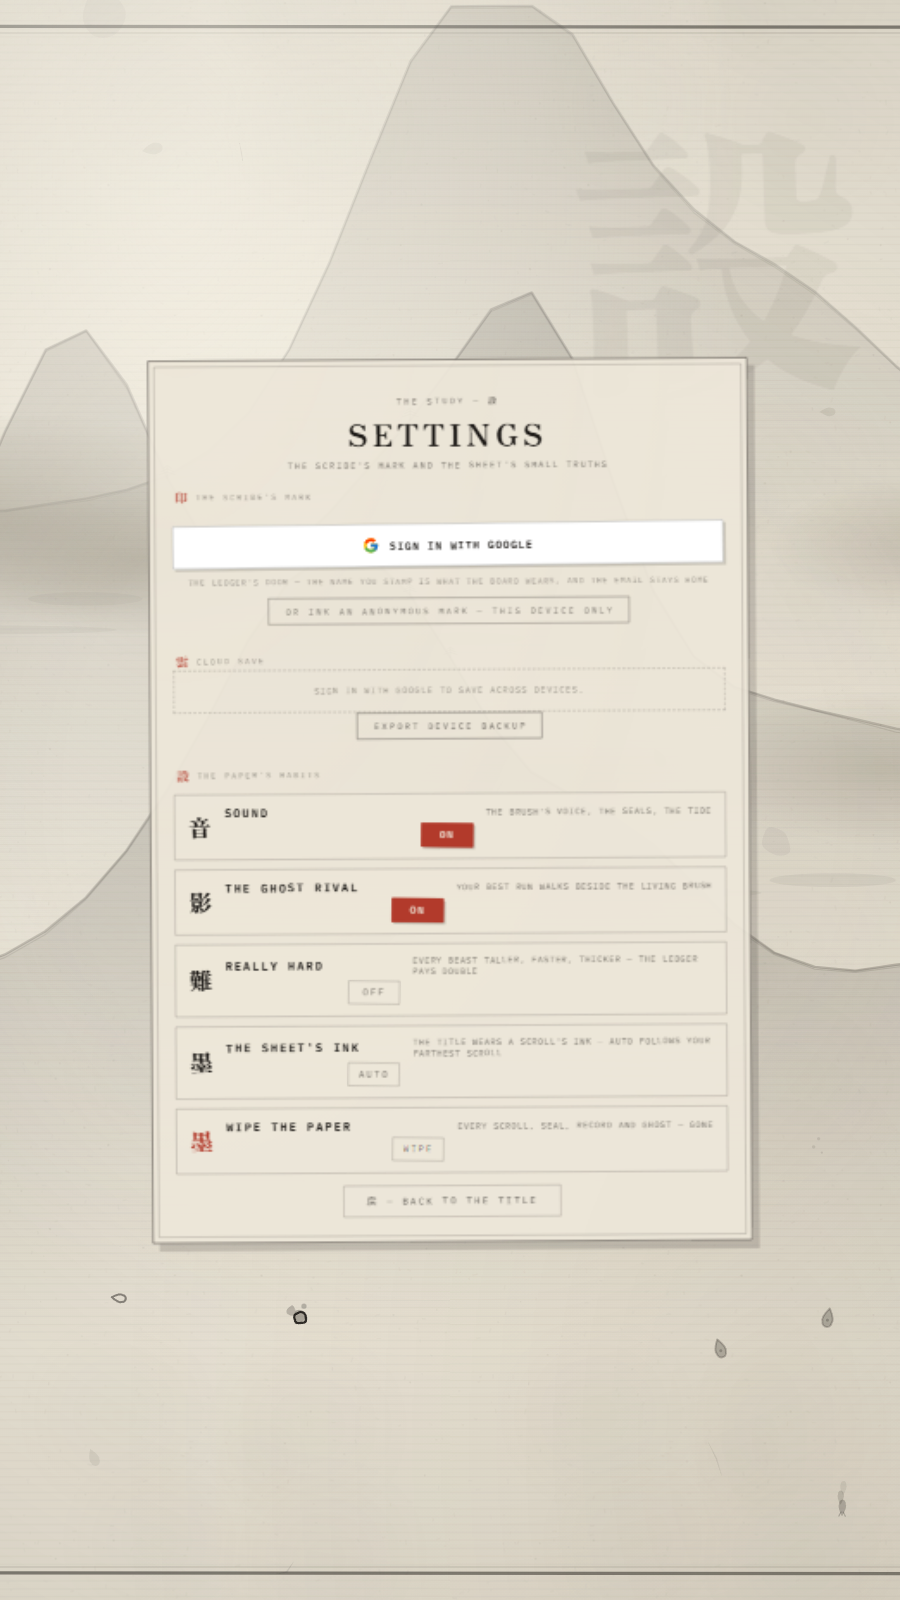
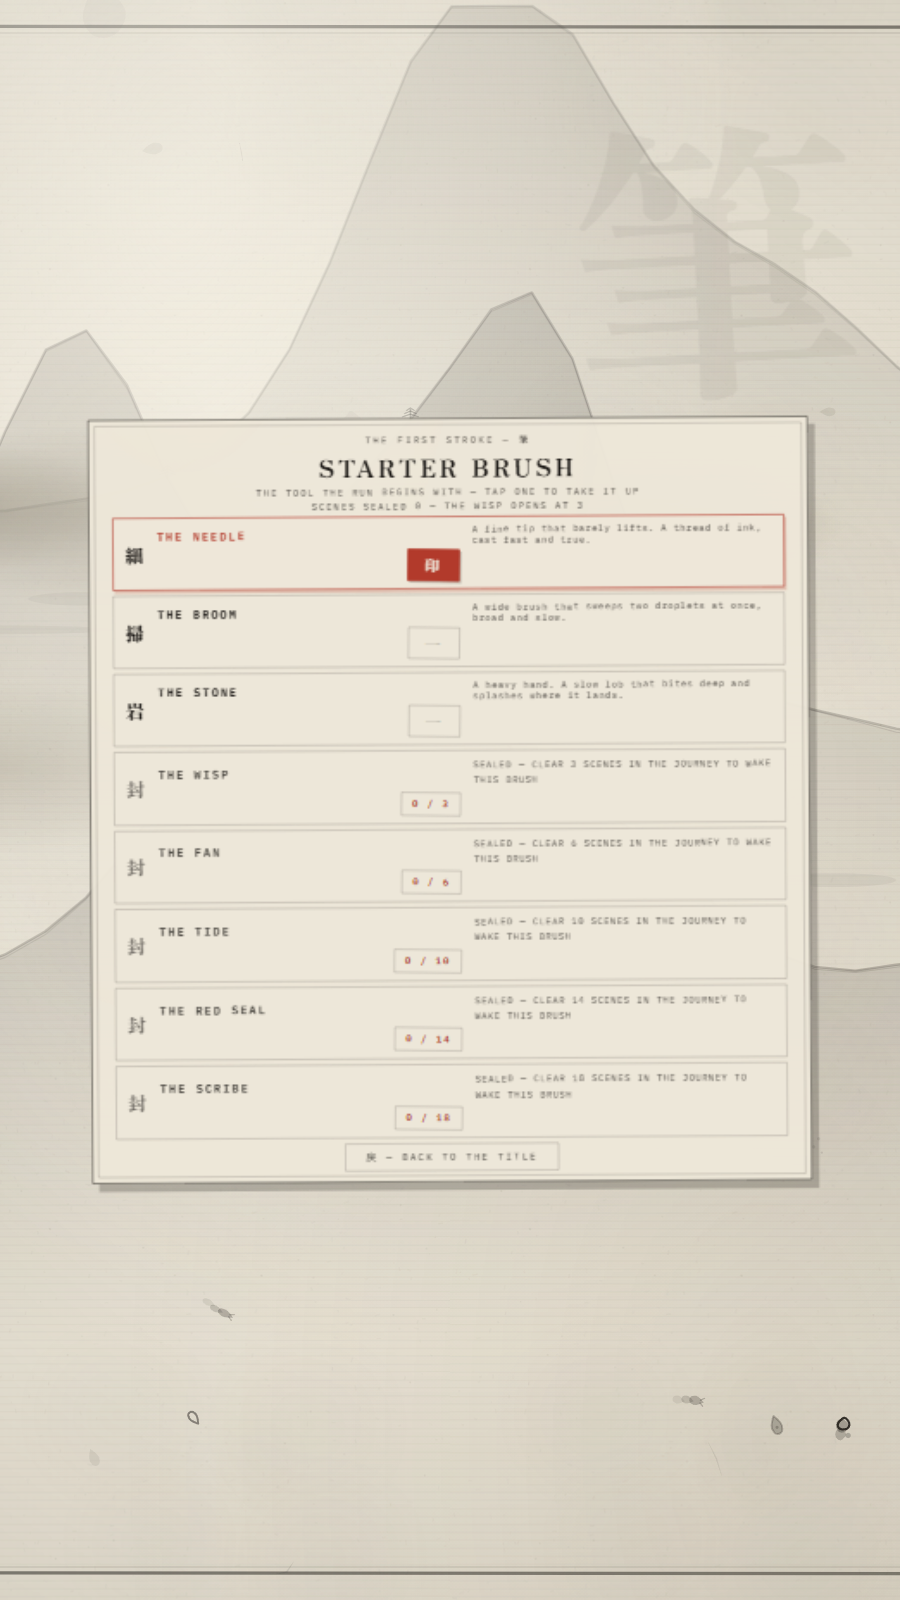
contrast(v20.4): strengthen the ink tiers against panel alpha stacking
The text/component/faint/name tiers were raw alphas that stacked over the translucent room panels, landing far below their documented ratios. All four tiers strengthened in every theme block (ink-62 to .8, ink-55 to .7, ink-45 to .58, ink-70 to .82), panels more opaque (paper-92 to .97) with a deeper block shadow, sealed brush hints moved to the text tier, the BUILD stamp legible, room text nudged 8.5px to 9px, and the title's ghost chips (LEDGER/DAILY/CHARMS, board tab) given an 0.82 backdrop instead of 0.6. Verified pale and dark themes live; DESIGN.md documents the tier floors.

diff --git a/css/style.css b/css/style.css
@@ -5,16 +5,18 @@
 
 :root{
   --paper: #ede7d9;
-  --paper-92: rgba(237, 231, 217, 0.94);
+  --paper-92: rgba(237, 231, 217, 0.97);
   --paper-80: rgba(237, 231, 217, 0.82);
   --paper-55: rgba(237, 231, 217, 0.6);
   --ink: #1a1714;
-  --ink-70: rgba(26, 23, 20, 0.7);
-  /* text tier — 4.7:1 on washi; the floor for every readable glyph */
-  --ink-62: rgba(26, 23, 20, 0.62);
-  /* component tier — 3.8:1; the floor for icons, dots and state marks */
-  --ink-55: rgba(26, 23, 20, 0.55);
-  --ink-45: rgba(26, 23, 20, 0.45);
+  --ink-70: rgba(26, 23, 20, 0.82);
+  /* text tier — the floor for every readable glyph. Pre-strengthened:
+     the room panels sit over the painted sheet, so raw alphas stack —
+     these hold their contrast after that stacking. */
+  --ink-62: rgba(26, 23, 20, 0.8);
+  /* component tier — the floor for icons, dots and state marks */
+  --ink-55: rgba(26, 23, 20, 0.7);
+  --ink-45: rgba(26, 23, 20, 0.58);
   --ink-25: rgba(26, 23, 20, 0.25);
   --ink-12: rgba(26, 23, 20, 0.12);
   --red: #b23a2b;
@@ -29,14 +31,14 @@
    banners and the sheets keep their contrast on dark paper */
 body[data-theme="dark"]{
   --paper: #3e372b;
-  --paper-92: rgba(62, 55, 43, 0.94);
+  --paper-92: rgba(62, 55, 43, 0.97);
   --paper-80: rgba(62, 55, 43, 0.82);
   --paper-55: rgba(62, 55, 43, 0.6);
   --ink: #e9e2d2;
-  --ink-70: rgba(233, 226, 210, 0.7);
-  --ink-62: rgba(233, 226, 210, 0.62);
-  --ink-55: rgba(233, 226, 210, 0.55);
-  --ink-45: rgba(233, 226, 210, 0.45);
+  --ink-70: rgba(233, 226, 210, 0.82);
+  --ink-62: rgba(233, 226, 210, 0.8);
+  --ink-55: rgba(233, 226, 210, 0.7);
+  --ink-45: rgba(233, 226, 210, 0.58);
   --ink-25: rgba(233, 226, 210, 0.25);
   --ink-12: rgba(233, 226, 210, 0.12);
   /* vermillion lifts on the dark sheet — 5.7:1 on pale → 4.0:1 on the washed night */
@@ -48,54 +50,54 @@ body[data-theme="dark"]{
    (ink pulled toward the sheet's tint, as render.js mixes it) */
 body[data-theme="red"]{
   --paper: #eadbc4;
-  --paper-92: rgba(234, 219, 196, 0.94);
+  --paper-92: rgba(234, 219, 196, 0.97);
   --paper-80: rgba(234, 219, 196, 0.82);
   --paper-55: rgba(234, 219, 196, 0.6);
   --ink: #2e1b17;
-  --ink-70: rgba(46, 27, 23, 0.7);
-  --ink-62: rgba(46, 27, 23, 0.62);
-  --ink-55: rgba(46, 27, 23, 0.55);
-  --ink-45: rgba(46, 27, 23, 0.45);
+  --ink-70: rgba(46, 27, 23, 0.82);
+  --ink-62: rgba(46, 27, 23, 0.8);
+  --ink-55: rgba(46, 27, 23, 0.7);
+  --ink-45: rgba(46, 27, 23, 0.58);
   --ink-25: rgba(46, 27, 23, 0.25);
   --ink-12: rgba(46, 27, 23, 0.12);
 }
 body[data-theme="storm"]{
   --paper: #c7cdc9;
-  --paper-92: rgba(199, 205, 201, 0.94);
+  --paper-92: rgba(199, 205, 201, 0.97);
   --paper-80: rgba(199, 205, 201, 0.82);
   --paper-55: rgba(199, 205, 201, 0.6);
   --ink: #19252d;
-  --ink-70: rgba(25, 37, 45, 0.7);
-  --ink-62: rgba(25, 37, 45, 0.62);
-  --ink-55: rgba(25, 37, 45, 0.55);
-  --ink-45: rgba(25, 37, 45, 0.45);
+  --ink-70: rgba(25, 37, 45, 0.82);
+  --ink-62: rgba(25, 37, 45, 0.8);
+  --ink-55: rgba(25, 37, 45, 0.7);
+  --ink-45: rgba(25, 37, 45, 0.58);
   --ink-25: rgba(25, 37, 45, 0.25);
   --ink-12: rgba(25, 37, 45, 0.12);
 }
 body[data-theme="gilt"]{
   --paper: #e7d6ad;
-  --paper-92: rgba(231, 214, 173, 0.94);
+  --paper-92: rgba(231, 214, 173, 0.97);
   --paper-80: rgba(231, 214, 173, 0.82);
   --paper-55: rgba(231, 214, 173, 0.6);
   --ink: #342710;
-  --ink-70: rgba(52, 39, 16, 0.7);
-  --ink-62: rgba(52, 39, 16, 0.62);
-  --ink-55: rgba(52, 39, 16, 0.55);
-  --ink-45: rgba(52, 39, 16, 0.45);
+  --ink-70: rgba(52, 39, 16, 0.82);
+  --ink-62: rgba(52, 39, 16, 0.8);
+  --ink-55: rgba(52, 39, 16, 0.7);
+  --ink-45: rgba(52, 39, 16, 0.58);
   --ink-25: rgba(52, 39, 16, 0.25);
   --ink-12: rgba(52, 39, 16, 0.12);
 }
 /* the blank silk — the brightest paper, its ink cool and violet-grey */
 body[data-theme="silk"]{
   --paper: #f3eee1;
-  --paper-92: rgba(243, 238, 225, 0.94);
+  --paper-92: rgba(243, 238, 225, 0.97);
   --paper-80: rgba(243, 238, 225, 0.82);
   --paper-55: rgba(243, 238, 225, 0.6);
   --ink: #2a2532;
-  --ink-70: rgba(42, 37, 50, 0.7);
-  --ink-62: rgba(42, 37, 50, 0.62);
-  --ink-55: rgba(42, 37, 50, 0.55);
-  --ink-45: rgba(42, 37, 50, 0.45);
+  --ink-70: rgba(42, 37, 50, 0.82);
+  --ink-62: rgba(42, 37, 50, 0.8);
+  --ink-55: rgba(42, 37, 50, 0.7);
+  --ink-45: rgba(42, 37, 50, 0.58);
   --ink-25: rgba(42, 37, 50, 0.25);
   --ink-12: rgba(42, 37, 50, 0.12);
 }
@@ -443,7 +445,7 @@ button{ font-family: inherit; color: inherit; background: none; border: none; cu
   z-index: 1;
   animation: riseIn .7s ease 3.75s backwards;
 }
-.foot-stamp{ font-size: 8px; letter-spacing: .28em; color: var(--ink-25); }
+.foot-stamp{ font-size: 8px; letter-spacing: .28em; color: var(--ink-55); }
 
 /* ============================================================
    UPGRADE SCREEN — a hand of three strokes, always on one page.
@@ -1291,7 +1293,7 @@ button{ font-family: inherit; color: inherit; background: none; border: none; cu
   color: var(--ink);
 }
 .be-copy{ display: flex; flex-direction: column; gap: 2px; flex: 1; min-width: 0; }
-.be-kicker{ font-size: 7.5px; letter-spacing: .3em; color: var(--ink-45); }
+.be-kicker{ font-size: 8px; letter-spacing: .3em; color: var(--ink-55); }
 .be-name{ font-size: 12px; letter-spacing: .22em; font-weight: 600; color: var(--ink); }
 .be-open{ font-size: 10px; color: var(--ink-45); transition: transform .18s ease, color .15s ease; }
 .brush-entry:hover .be-open{ transform: translateY(1.5px); color: var(--ink); }
@@ -1328,7 +1330,7 @@ button{ font-family: inherit; color: inherit; background: none; border: none; cu
   .title-sub{ display: none; }
   .brush-entry{ margin-top: 8px; padding: 5px 12px 5px 10px; gap: 9px; box-shadow: 2px 3px 0 rgba(26,23,20,.14); }
   .be-kanji{ font-size: 17px; }
-  .be-kicker{ font-size: 6.5px; }
+  .be-kicker{ font-size: 7px; }
   .be-name{ font-size: 9px; }
   .mode-row{ margin-top: 9px; gap: 10px; }
   .mode-row .play-btn, .endless-btn{ width: auto; padding: 8px 16px; font-size: 11px; }
@@ -1369,14 +1371,14 @@ button{ font-family: inherit; color: inherit; background: none; border: none; cu
    beam, the hint and every strip print in the sheet's tone */
 #screenScrolls[data-wear="dark"]{
   --paper: #3e372b;
-  --paper-92: rgba(62, 55, 43, 0.94);
+  --paper-92: rgba(62, 55, 43, 0.97);
   --paper-80: rgba(62, 55, 43, 0.82);
   --paper-55: rgba(62, 55, 43, 0.6);
   --ink: #e9e2d2;
-  --ink-70: rgba(233, 226, 210, 0.7);
-  --ink-62: rgba(233, 226, 210, 0.62);
-  --ink-55: rgba(233, 226, 210, 0.55);
-  --ink-45: rgba(233, 226, 210, 0.45);
+  --ink-70: rgba(233, 226, 210, 0.82);
+  --ink-62: rgba(233, 226, 210, 0.8);
+  --ink-55: rgba(233, 226, 210, 0.7);
+  --ink-45: rgba(233, 226, 210, 0.58);
   --ink-25: rgba(233, 226, 210, 0.25);
   --ink-12: rgba(233, 226, 210, 0.12);
   --red: #ea7560;
@@ -1387,14 +1389,14 @@ button{ font-family: inherit; color: inherit; background: none; border: none; cu
 }
 #screenScrolls[data-wear="red"]{
   --paper: #eadbc4;
-  --paper-92: rgba(234, 219, 196, 0.94);
+  --paper-92: rgba(234, 219, 196, 0.97);
   --paper-80: rgba(234, 219, 196, 0.82);
   --paper-55: rgba(234, 219, 196, 0.6);
   --ink: #2e1b17;
-  --ink-70: rgba(46, 27, 23, 0.7);
-  --ink-62: rgba(46, 27, 23, 0.62);
-  --ink-55: rgba(46, 27, 23, 0.55);
-  --ink-45: rgba(46, 27, 23, 0.45);
+  --ink-70: rgba(46, 27, 23, 0.82);
+  --ink-62: rgba(46, 27, 23, 0.8);
+  --ink-55: rgba(46, 27, 23, 0.7);
+  --ink-45: rgba(46, 27, 23, 0.58);
   --ink-25: rgba(46, 27, 23, 0.25);
   --ink-12: rgba(46, 27, 23, 0.12);
   background:
@@ -1404,14 +1406,14 @@ button{ font-family: inherit; color: inherit; background: none; border: none; cu
 }
 #screenScrolls[data-wear="storm"]{
   --paper: #c7cdc9;
-  --paper-92: rgba(199, 205, 201, 0.94);
+  --paper-92: rgba(199, 205, 201, 0.97);
   --paper-80: rgba(199, 205, 201, 0.82);
   --paper-55: rgba(199, 205, 201, 0.6);
   --ink: #19252d;
-  --ink-70: rgba(25, 37, 45, 0.7);
-  --ink-62: rgba(25, 37, 45, 0.62);
-  --ink-55: rgba(25, 37, 45, 0.55);
-  --ink-45: rgba(25, 37, 45, 0.45);
+  --ink-70: rgba(25, 37, 45, 0.82);
+  --ink-62: rgba(25, 37, 45, 0.8);
+  --ink-55: rgba(25, 37, 45, 0.7);
+  --ink-45: rgba(25, 37, 45, 0.58);
   --ink-25: rgba(25, 37, 45, 0.25);
   --ink-12: rgba(25, 37, 45, 0.12);
   background:
@@ -1421,14 +1423,14 @@ button{ font-family: inherit; color: inherit; background: none; border: none; cu
 }
 #screenScrolls[data-wear="gilt"]{
   --paper: #e7d6ad;
-  --paper-92: rgba(231, 214, 173, 0.94);
+  --paper-92: rgba(231, 214, 173, 0.97);
   --paper-80: rgba(231, 214, 173, 0.82);
   --paper-55: rgba(231, 214, 173, 0.6);
   --ink: #342710;
-  --ink-70: rgba(52, 39, 16, 0.7);
-  --ink-62: rgba(52, 39, 16, 0.62);
-  --ink-55: rgba(52, 39, 16, 0.55);
-  --ink-45: rgba(52, 39, 16, 0.45);
+  --ink-70: rgba(52, 39, 16, 0.82);
+  --ink-62: rgba(52, 39, 16, 0.8);
+  --ink-55: rgba(52, 39, 16, 0.7);
+  --ink-45: rgba(52, 39, 16, 0.58);
   --ink-25: rgba(52, 39, 16, 0.25);
   --ink-12: rgba(52, 39, 16, 0.12);
   background:
@@ -1438,14 +1440,14 @@ button{ font-family: inherit; color: inherit; background: none; border: none; cu
 }
 #screenScrolls[data-wear="silk"]{
   --paper: #f3eee1;
-  --paper-92: rgba(243, 238, 225, 0.94);
+  --paper-92: rgba(243, 238, 225, 0.97);
   --paper-80: rgba(243, 238, 225, 0.82);
   --paper-55: rgba(243, 238, 225, 0.6);
   --ink: #2a2532;
-  --ink-70: rgba(42, 37, 50, 0.7);
-  --ink-62: rgba(42, 37, 50, 0.62);
-  --ink-55: rgba(42, 37, 50, 0.55);
-  --ink-45: rgba(42, 37, 50, 0.45);
+  --ink-70: rgba(42, 37, 50, 0.82);
+  --ink-62: rgba(42, 37, 50, 0.8);
+  --ink-55: rgba(42, 37, 50, 0.7);
+  --ink-45: rgba(42, 37, 50, 0.58);
   --ink-25: rgba(42, 37, 50, 0.25);
   --ink-12: rgba(42, 37, 50, 0.12);
   background:
@@ -1692,7 +1694,7 @@ button{ font-family: inherit; color: inherit; background: none; border: none; cu
   .scroll-strip .strip-string{ top: -26px; height: 26px; }
   /* the kicker loses its side dashes and a ring of tracking so it
      holds one line on a phone */
-  .scrolls-kicker{ font-size: 8.5px; letter-spacing: .26em; text-indent: .26em; }
+  .scrolls-kicker{ font-size: 9px; letter-spacing: .26em; text-indent: .26em; }
   .scrolls-kicker::before, .scrolls-kicker::after{ display: none; }
   .strip-kanji{ font-size: 38px; }
   .strip-dots{ gap: 3px; margin: 5px 0 1px; }
@@ -1755,7 +1757,7 @@ button{ font-family: inherit; color: inherit; background: none; border: none; cu
   content: '';
   position: absolute; inset: 0;
   border: 1px solid var(--ink-25);
-  background: var(--paper-55);
+  background: var(--paper-80);
   filter: var(--rough-soft);
   pointer-events: none;
 }
@@ -1829,7 +1831,7 @@ button{ font-family: inherit; color: inherit; background: none; border: none; cu
   content: '';
   position: absolute; inset: 0;
   border: 1px solid var(--ink-25);
-  background: var(--paper-55);
+  background: var(--paper-80);
   filter: var(--rough-soft);
   pointer-events: none;
 }
@@ -1871,7 +1873,7 @@ button{ font-family: inherit; color: inherit; background: none; border: none; cu
 }
 .board-tab:hover{ color: var(--ink-70); }
 .board-tab.is-on{ color: var(--ink); }
-.board-tab.is-on::before{ border: 1px solid var(--ink-25); background: var(--paper-55); }
+.board-tab.is-on::before{ border: 1px solid var(--ink-25); background: var(--paper-80); }
 
 /* ---- the ledger leaf ---- */
 .screen-board{
@@ -2171,7 +2173,7 @@ button{ font-family: inherit; color: inherit; background: none; border: none; cu
   padding: clamp(18px, 3.4vh, 34px) clamp(16px, 2.6vw, 30px) clamp(14px, 2.4vh, 24px);
   background: var(--paper-92);
   border: 1.4px solid var(--ink-70);
-  box-shadow: 7px 8px 0 rgba(30,26,22,.16);
+  box-shadow: 7px 8px 0 rgba(30,26,22,.24);
   transform: rotate(-.35deg);
 }
 /* the room's scroll is a thin inked rule — never the browser's gray bar */
@@ -2189,13 +2191,13 @@ button{ font-family: inherit; color: inherit; background: none; border: none; cu
 }
 .set-wrap > *{ position: relative; }
 .set-head{ text-align: center; margin-bottom: 12px; }
-.set-kicker{ font-size: 8.5px; letter-spacing: .3em; color: var(--ink-62); }
+.set-kicker{ font-size: 9px; letter-spacing: .3em; color: var(--ink-62); }
 .set-title{
   font-family: var(--display); font-weight: 400;
   font-size: clamp(21px, 3.6vh, 30px); letter-spacing: .16em;
   margin: 5px 0 4px; color: var(--ink);
 }
-.set-sub{ font-size: 8.5px; letter-spacing: .22em; color: var(--ink-62); margin: 0; }
+.set-sub{ font-size: 9px; letter-spacing: .22em; color: var(--ink-62); margin: 0; }
 .set-rows{ display: flex; flex-direction: column; gap: 9px; margin: 14px 0 12px; }
 .set-row{
   display: grid; grid-template-columns: auto 1fr auto; align-items: center;
@@ -2215,7 +2217,7 @@ button{ font-family: inherit; color: inherit; background: none; border: none; cu
 .set-name{ font-size: 11.5px; letter-spacing: .18em; color: var(--ink); font-weight: 600; white-space: nowrap; }
 /* a long description must not eat the name's column: cap the auto
    third so every row's name keeps its room (it wraps instead) */
-.set-desc{ font-size: 8.5px; letter-spacing: .1em; color: var(--ink-62); max-width: min(46vw, 300px); }
+.set-desc{ font-size: 9px; letter-spacing: .1em; color: var(--ink-62); max-width: min(46vw, 300px); }
 /* very narrow paper: let a long row's name wrap again rather than overflow */
 @media (max-width: 380px){ .set-name{ white-space: normal; } }
 
@@ -2363,7 +2365,7 @@ button{ font-family: inherit; color: inherit; background: none; border: none; cu
 .br-row.is-sealed{ cursor: not-allowed; }
 .br-row.is-sealed .set-kanji{ color: var(--ink-45); }
 .br-row.is-sealed .set-name{ color: var(--ink-70); }
-.br-row.is-sealed .set-desc{ color: var(--ink-45); letter-spacing: .12em; line-height: 1.7; }
+.br-row.is-sealed .set-desc{ color: var(--ink-62); letter-spacing: .12em; line-height: 1.7; }
 .br-row .br-prog{ color: var(--red); font-weight: 600; }
 .br-row.is-sealed:hover{ border-color: var(--ink-25); background: var(--paper-80); transform: none; }
 .br-row.is-sealed:hover .set-kanji{ color: var(--ink-45); }

diff --git a/sw.js b/sw.js
@@ -11,7 +11,7 @@
    retires every cache that does not carry the current version. */
 'use strict';
 
-const VER = 'v20.3';
+const VER = 'v20.4';
 const CORE_CACHE = `om-core-${VER}`;
 const RUN_CACHE = `om-run-${VER}`;
 

diff --git a/css/DESIGN.md b/css/DESIGN.md
@@ -5,6 +5,7 @@ The paper's whole visual language: washi surfaces, inked rules, seal-red accents
 
 ## Language
 - **Palette** lives in custom properties at the top of `style.css` (`--paper*`, `--ink-*`, `--red`, `--red-deep`). Strict monochrome + one sacred seal red; bosses/keeper accents stay inside that family (the v20 RED/BLACK LAW).
+- **Contrast tiers are pre-strengthened for alpha stacking** (v20.4): the room panels are translucent (`.set-wrap` at paper-97) and sit over the painted sheet, so raw alpha inks lose their nominal ratio. The tiers are therefore declared stronger than their labels suggest — text tier `--ink-62` at alpha .8, component `--ink-55` at .7, faint `--ink-45` at .58, name tier `--ink-70` at .82 — in every theme block. Treat these as the floors: any new text must use `--ink-62` or stronger; `--ink-45` is for marks and rules, never body text; the sealed-row hint and ghost-chip backdrops follow the same rule.
 - **Ink wobble** comes from the two SVG `feTurbulence` filters in `index.html` (`#inkrough`, `#inkrough-soft`) referenced as `filter: var(--rough-soft)` etc. Never apply them to large animated areas — they are GPU-costly.
 - **Type**: Zen Antique for display kanji/serif moments, IBM Plex Mono for labels. Letterspacing does the hierarchy work; sizes stay tiny (8.5–11.5px) against generous paper space.
 
